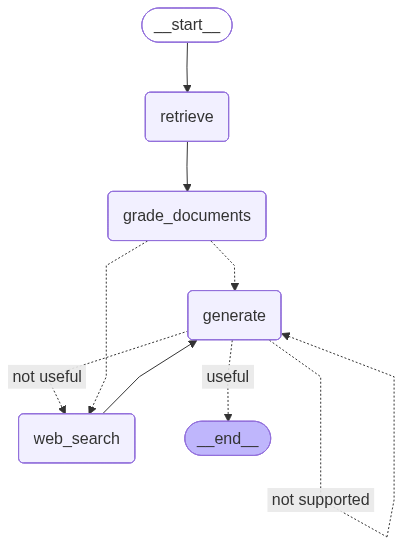
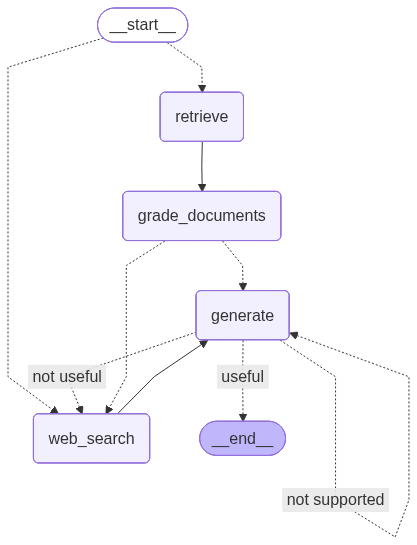
implement routing logic and conditional workflow

diff --git a/graph/graph.py b/graph/graph.py
@@ -5,6 +5,9 @@ from graph.consts import RETRIEVE, GENERATE, GRADE_DOCUMENTS, WEB_SEARCH
 from graph.state import GraphState
 from graph.chains.hallucination_grader import hallucination_grader
 from graph.chains.answer_grader import answer_grader
+from graph.chains.router import question_router, RouteQuery
+
+
 
 load_dotenv()
 
@@ -44,6 +47,22 @@ def grade_generation_grounded_in_docs_and_questions(state: GraphState) -> str:
     else:
         print("---DECISION: GENERATION IS NOT GROUNDED IN DOCUMENTS, RE-TRY---")
         return "not supported"
+
+def route_question(state: GraphState) -> str:
+    print("---ROUTE QUESTION---")
+    question = state["question"]
+    source: RouteQuery = question_router.invoke({"question": question})
+
+    if source.datasource == "websearch":
+        print("---ROUTE QUESTION TO WEB SEARCH---")
+        return WEB_SEARCH
+    
+    if source.datasource == "vectorstore":
+        print("---ROUTE QUESTION TO RAG---")
+        return RETRIEVE
+    
+    # print("---DEFAULT ROUTE: RAG---")
+    # return WEB_SEARCH
     
 workflow = StateGraph(GraphState)
 
@@ -51,8 +70,15 @@ workflow.add_node(RETRIEVE , retriver)
 workflow.add_node(GRADE_DOCUMENTS , grade_documents)
 workflow.add_node(GENERATE , generate_answer)
 workflow.add_node(WEB_SEARCH , web_search)
+workflow.set_conditional_entry_point(
+    route_question,
+    {
+        WEB_SEARCH: WEB_SEARCH,
+        RETRIEVE: RETRIEVE,
+    },
+)
 
-workflow.set_entry_point(RETRIEVE)
+# workflow.set_entry_point(RETRIEVE)
 
 workflow.add_edge(RETRIEVE , GRADE_DOCUMENTS )
 workflow.add_conditional_edges(GRADE_DOCUMENTS , decide_to_generate , 

diff --git a/graph/chains/router.py b/graph/chains/router.py
@@ -1,0 +1,31 @@
+from typing import Literal
+
+from langchain_core.prompts import ChatPromptTemplate
+from pydantic import BaseModel, Field
+from langchain_openai import ChatOpenAI
+
+
+class RouteQuery(BaseModel):
+    """Route a user query to the most relevant datasource."""
+
+    datasource: Literal["vectorstore", "websearch"] = Field(
+        ...,
+        description="Given a user question choose to route it to web search or a vectorstore.",
+    )
+    
+llm = ChatOpenAI(temperature=0)
+structured_llm_router = llm.with_structured_output(RouteQuery)
+
+system = """You are an expert at routing a user question to a vectorstore or web search.
+The vectorstore contains documents related to agents, prompt engineering, and adversarial attacks.
+Use the vectorstore for questions on these topics. For all else, use web-search."""
+
+route_prompt = ChatPromptTemplate.from_messages(
+    [
+        ("system", system),
+        ("human", "{question}"),
+    ]
+)
+
+question_router = route_prompt | structured_llm_router
+

diff --git a/graph/chains/tests/test_chains.py b/graph/chains/tests/test_chains.py
@@ -1,10 +1,12 @@
 from dotenv import load_dotenv
 
 
+
+
 load_dotenv()
 from pprint import pprint
 from graph.chains.hallucination_grader import hallucination_grader, GradeHallucinations
-
+from graph.chains.router import RouteQuery , question_router
 
 from graph.chains.retrieval_grader import GradeDocuments, retrieval_grader
 from graph.chains.generation import generation_chain
@@ -63,3 +65,17 @@ def test_hallucination_grader_answer_no() -> None:
         {"documents": docs, "generation": "pizza is a type of dance originated in italy"}
     )
     assert not res.binary_score
+    
+    
+def test_router_to_vectorstore() -> None:
+    question = "agent memory"
+
+    res: RouteQuery = question_router.invoke({"question": question})
+    assert res.datasource == "vectorstore"
+
+
+def test_router_to_websearch() -> None:
+    question = "how to make pizza"
+
+    res: RouteQuery = question_router.invoke({"question": question})
+    assert res.datasource == "websearch"

diff --git a/graph/state.py b/graph/state.py
@@ -1,4 +1,5 @@
-from typing import List, TypedDict
+from typing import List, TypedDict , Annotated
+import operator
 
 
 class GraphState(TypedDict):
@@ -12,7 +13,8 @@ class GraphState(TypedDict):
         documents: list of documents
     """
 
-    question: str
+    question: Annotated[str, lambda x, y: y]
+
     generation: str
     web_search: bool
-    documents: List[str]
+    documents: Annotated[List[str], operator.add]

diff --git a/main.py b/main.py
@@ -3,7 +3,8 @@ from graph.graph import app
 
 def main():
     print("Starting LangGraph application...")
-    print(app.invoke({"question": "What is agent memory?"}))
+    # print(app.invoke({"question": "What is agent memory?"}))
+    print(app.invoke({"question": "How to make pizza?"}))
 
 
 if __name__ == "__main__":
